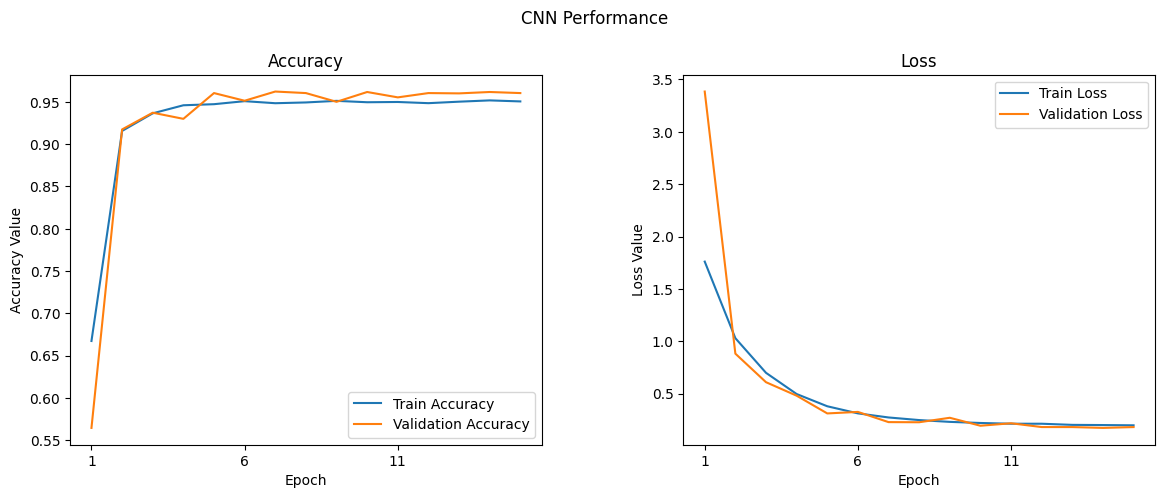
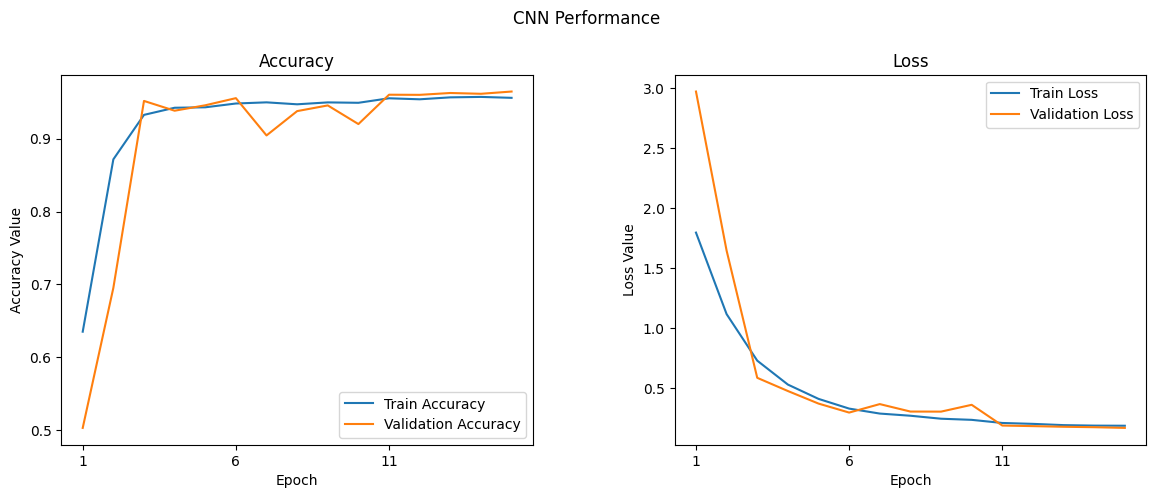
added images, updated readme

diff --git a/README.md b/README.md
@@ -56,7 +56,7 @@ In this section, we explored the dataset to gain insights into the characteristi
 To visualize the dataset, we displayed a sample of images from both classes: parasitized and uninfected cells. These sample images provide a visual representation of the cells and their differences.
 
 <div align="center">
-  <img src="Images/Sample_Images.png" width="700">
+  <img src="Images/Sample_Images.png" width="800">
 </div>
 
 
@@ -80,9 +80,6 @@ Here are some visualizations and results from our Malaria Cell Image Classificat
 
 To evaluate the effectiveness of our malaria cell image classification model, we've compiled key performance metrics. These metrics provide insights into the model's ability to accurately classify cells as either infected or uninfected. Below is a summary table showcasing these metrics:
 
-<div align="center">
-  <img src="Images/model_performance_table.png" width="500">
-</div>
 
 | Metric         | Infected (0) | Uninfected (1) | Overall     |
 |----------------|--------------|----------------|-------------|
@@ -96,9 +93,9 @@ To evaluate the effectiveness of our malaria cell image classification model, we
 
 **Key Aspects of the Table:**
 
-- **Accuracy (95.90%)**: This is the overall correctness of the model in classifying the images. A high accuracy indicates that the model is able to correctly identify most of the infected and uninfected cells.
+- **Accuracy (96.19%)**: This is the overall correctness of the model in classifying the images. A high accuracy indicates that the model is able to correctly identify most of the infected and uninfected cells.
 
-- **Test Loss (0.18573)**: Represents how well the model is performing against the test dataset. A lower test loss indicates that the model is making fewer mistakes in its predictions.
+- **Test Loss (0.16538)**: Represents how well the model is performing against the test dataset. A lower test loss indicates that the model is making fewer mistakes in its predictions.
 
 - **Precision, Recall, and F1-Score for Each Class**: These metrics are calculated separately for both 'Infected' and 'Uninfected' classes. 
   - _Precision_ reflects the proportion of true positive identifications among all positive identifications made by the model.
@@ -116,10 +113,10 @@ The above metrics are essential for understanding the model's strengths and area
   <img src="Images/cnn_confusion_matrix.png" width="500">
 </div>
 
-- **True Positives (TP) - 2615:** The model correctly identified **2615** cells as **'Infected'**.
-- **True Negatives (TN) - 2671:** The model correctly identified **2671** cells as **'Uninfected'**.
-- **False Positives (FP) - 182:** The model incorrectly identified **182** cells as **'Infected'** when they were actually **'Uninfected'**.
-- **False Negatives (FN) - 44:** The model incorrectly identified **44** cells as **'Uninfected'** when they were actually **'Infected'**.
+- **True Positives (TP) - 2671:** The model correctly identified **2671** cells as **'Infected'**.
+- **True Negatives (TN) - 2631:** The model correctly identified **2631** cells as **'Uninfected'**.
+- **False Positives (FP) - 126:** The model incorrectly identified **126** cells as **'Infected'** when they were actually **'Uninfected'**.
+- **False Negatives (FN) - 84:** The model incorrectly identified **84** cells as **'Uninfected'** when they were actually **'Infected'**.
 
 
 ### Receiver Operating Characteristic (ROC) Curve and Area Under the Curve (AUC) Score
